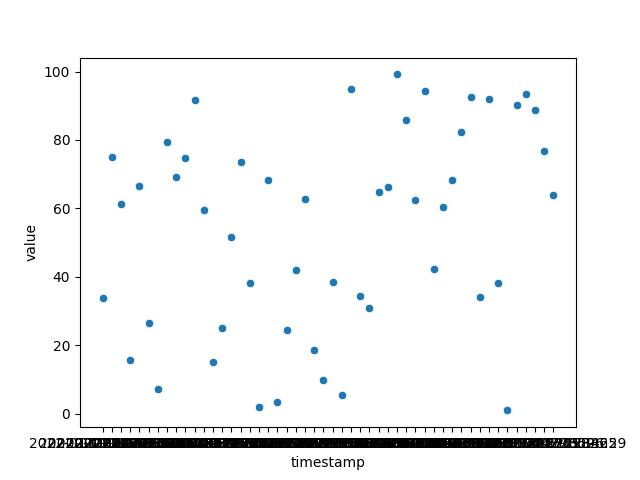
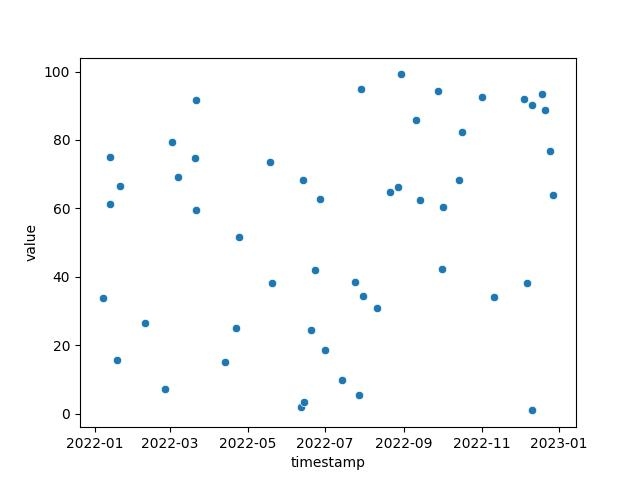
value to timestamp scatterplot addet

diff --git a/workouts_analysis/ml/classify_workouts.py b/workouts_analysis/ml/classify_workouts.py
@@ -1,16 +1,36 @@
 import pandas as pd
 import seaborn as sns
 from matplotlib import pyplot as plt
+from sklearn import preprocessing
+from sklearn.cluster import KMeans
+from sklearn.metrics import silhouette_score
+from sklearn.model_selection import train_test_split
 
 from workouts_analysis import WORKOUT_STATS_SORTED, WORKOUTS_DIR
 
 
+# https://www.datacamp.com/tutorial/k-means-clustering-python
 def main():
     workouts_df = pd.read_csv(WORKOUT_STATS_SORTED)
+    workouts_df["timestamp"] = pd.to_datetime(workouts_df["timestamp"])
+    workouts_df["timestamp"] = workouts_df["timestamp"].astype('int64')
     print(workouts_df)
     sns.scatterplot(data=workouts_df, x='timestamp', y='value')
     plt.savefig(WORKOUTS_DIR + "value_per_timestamp.jpg")
-    #https://www.datacamp.com/tutorial/k-means-clustering-python
+
+    X_train, X_test, y_train, y_test = train_test_split(workouts_df[['timestamp']],
+                                                        workouts_df[['value']], test_size=0.33,
+                                                        random_state=0)
+    X_train_norm = preprocessing.normalize(X_train)
+    X_test_norm = preprocessing.normalize(X_test)
+    # TODO: What means fitting model?
+    kmeans = KMeans(n_clusters=3, random_state=0, n_init='auto')
+    kmeans.fit(X_train_norm)
+
+    sns.scatterplot(data=X_train, x='timestamp', y='value', hue=kmeans.labels_)
+    sns.boxplot(x=kmeans.labels_, y=y_train['stats_classification'])
+
+    silhouette_score(X_train_norm, kmeans.labels_, metric='euclidean')
 
 
 main()

diff --git a/workouts_analysis/analysis/workouts_value_per_timestamp.py b/workouts_analysis/analysis/workouts_value_per_timestamp.py
@@ -1,0 +1,15 @@
+import pandas as pd
+import seaborn as sns
+from matplotlib import pyplot as plt
+
+from workouts_analysis import WORKOUT_STATS_SORTED, WORKOUTS_DIR
+
+
+def main():
+    workouts_df = pd.read_csv(WORKOUT_STATS_SORTED)
+    workouts_df["timestamp"] = pd.to_datetime(workouts_df["timestamp"])
+    sns.scatterplot(data=workouts_df, x='timestamp', y='value')
+    plt.savefig(WORKOUTS_DIR + "value_per_timestamp.jpg")
+
+
+main()
